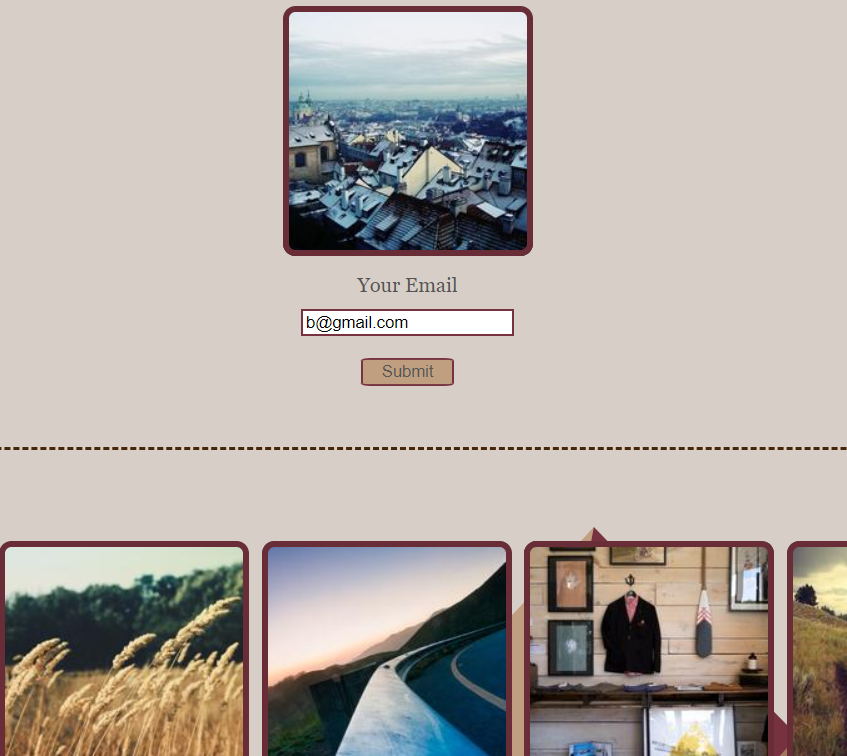
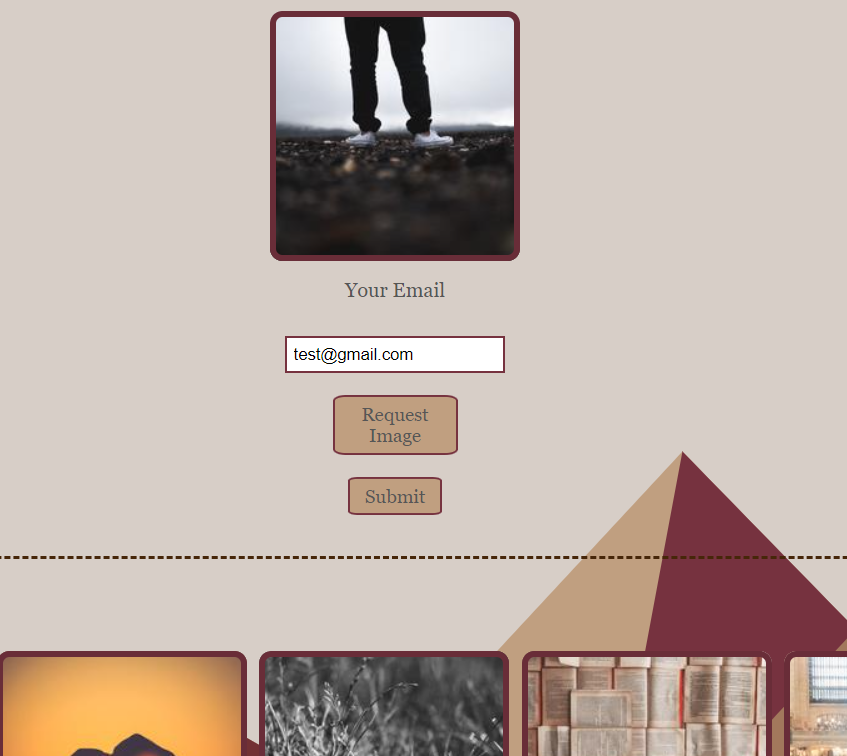
- fixed portfolio styling - fixed coding description

diff --git a/index.html b/index.html
@@ -135,13 +135,12 @@
                                     Firstly it selects and adds a column header to movies and their
                                     years of release from the "movie" table, as well selecting a subquery of all ratings
                                     of all the movies from the "rating" table.<br><br>
-                                    Then it creates a second sub-query that works as an inner join between
-                                    the "movie" and "rating" table to only select shared movies, and then
+                                    Then it creates a second sub-query that then
                                     only selects movies that have been given a rating, and whose rating is
                                     higher than 7/10.<br><br>
                                     Finally the entire table is ordered by the year of movie release in
-                                    descending order. Thus showing a final table with each movie with a rating higher than 7,
-                                    it's release date, and said rating.
+                                    descending order. Thus showing a final table of each movie title that has a rating higher than 7,
+                                    it's release date, and their ratings.
                                 </p>
                             </div>
                         </div>

diff --git a/style.css b/style.css
@@ -93,7 +93,7 @@
   top: 50px;
   text-align: center;
 }
-.portfolio-cont #code-lang {
+.portfolio-cont #code-lang1, .portfolio-cont #code-lang2 {
   font-size: 12px;
 }
 
@@ -414,6 +414,12 @@
   }
   .portfolio-title-cont #portfolio-title-id {
     padding-top: 25px;
+  }
+  .portfolio-cont #project-text-1 {
+    position: absolute;
+    left: 18px;
+    top: 35px;
+    text-align: center;
   }
   .coding-title-cont {
     max-width: 60%;

diff --git a/partials/_mediaqueries.scss b/partials/_mediaqueries.scss
@@ -21,6 +21,14 @@
             padding-top: 25px;
         }
     }
+    .portfolio-cont {
+        #project-text-1 {
+            position: absolute;
+            left: 18px;
+            top: 35px;
+            text-align: center;
+        }
+    }
 
     .coding-title-cont {
         max-width: 60%;

diff --git a/partials/_portfolio.scss b/partials/_portfolio.scss
@@ -74,7 +74,7 @@
     text-align: center;
   }
 
-  #code-lang {
+  #code-lang1, #code-lang2 {
     font-size: 12px;
   }
 }
